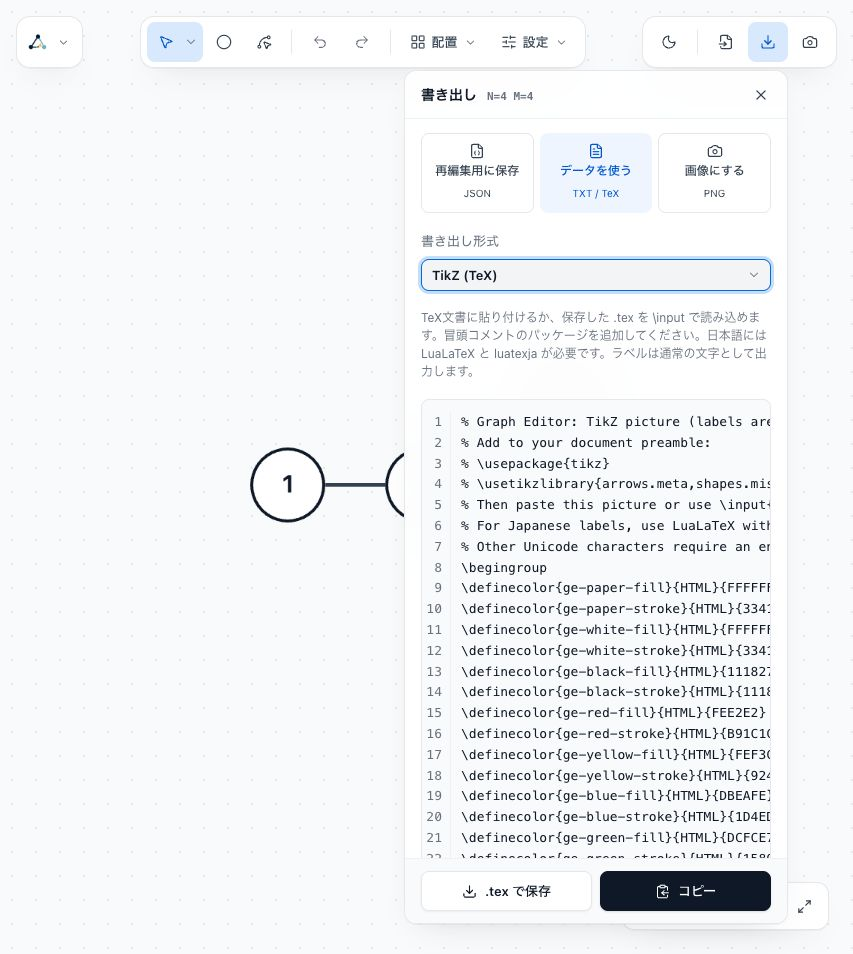
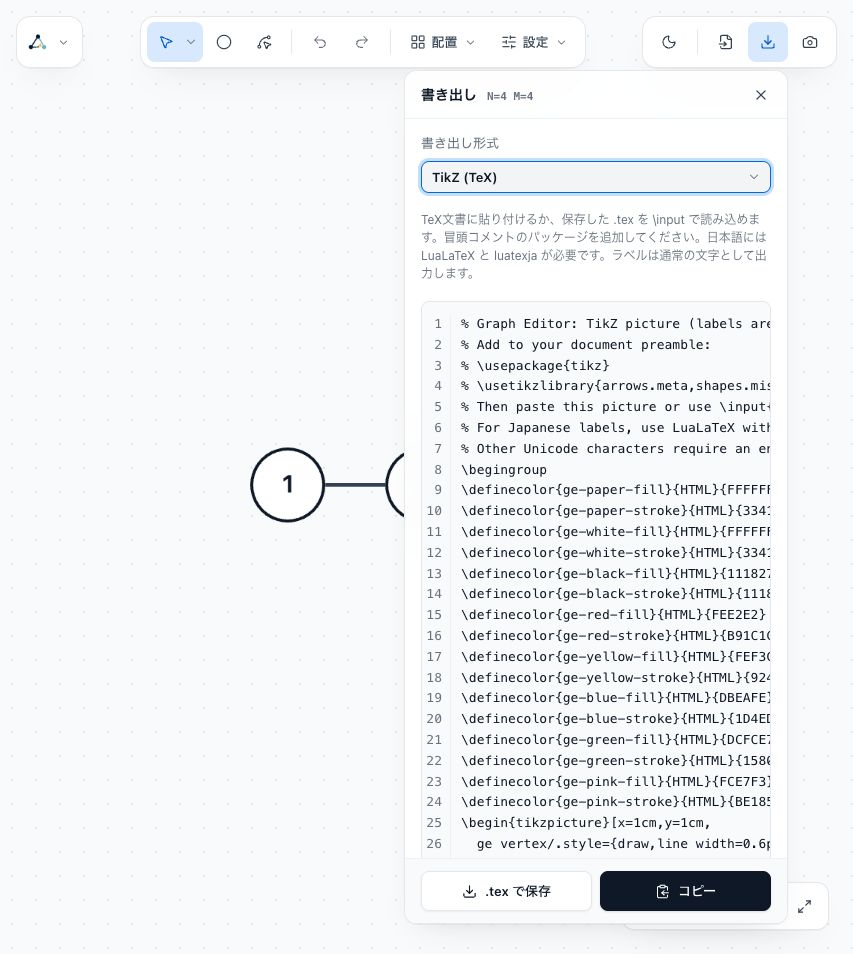
Simplify export controls and preserve start screen behind panels

Changed region(s): [[0.4877, 0.1216, 0.9144, 0.9119]]

diff --git a/features/graph-editor/ui/panels/ExportPanel.tsx b/features/graph-editor/ui/panels/ExportPanel.tsx
@@ -1,17 +1,10 @@
 "use client";
 
-import {
-  Camera,
-  ClipboardCopy,
-  Download,
-  FileJson,
-  FileText,
-} from "lucide-react";
+import { ClipboardCopy, Download } from "lucide-react";
 import { memo, useId, useMemo } from "react";
 
 import {
   Button,
-  ChoiceButton,
   ControlRow,
   Notice,
   PanelActions,
@@ -34,7 +27,6 @@ export function ExportPanelBody({
   mobile,
   pending = false,
   onExportFormatChange,
-  onOpenImage,
 }: {
   exportFormat: GraphExportFormat;
   exportText: string;
@@ -42,7 +34,6 @@ export function ExportPanelBody({
   mobile: boolean;
   pending?: boolean;
   onExportFormatChange: (format: GraphExportFormat) => void;
-  onOpenImage: () => void;
 }) {
   const { messages, locale } = useI18n();
   const formatId = useId();
@@ -58,50 +49,6 @@ export function ExportPanelBody({
 
   return (
     <>
-      <div
-        role="group"
-        aria-label={messages.exportPanel.purpose}
-        className="grid grid-cols-3 gap-1.5"
-      >
-        {[
-          {
-            label: messages.exportPanel.purposes.save,
-            detail: "JSON",
-            icon: FileJson,
-            active: exportFormat === "json",
-            onClick: () => onExportFormatChange("json"),
-          },
-          {
-            label: messages.exportPanel.purposes.data,
-            detail: "TXT / TeX",
-            icon: FileText,
-            active: exportFormat !== "json",
-            onClick: () => onExportFormatChange("edge-list"),
-          },
-          {
-            label: messages.exportPanel.purposes.image,
-            detail: "PNG",
-            icon: Camera,
-            active: false,
-            onClick: onOpenImage,
-          },
-        ].map(({ label, detail, icon: Icon, active, onClick }) => (
-          <ChoiceButton
-            key={label}
-            aria-label={label}
-            aria-pressed={detail === "PNG" ? undefined : active}
-            active={active}
-            layout="tile"
-            onClick={onClick}
-          >
-            <Icon className="size-4 shrink-0" aria-hidden="true" />
-            <span className="w-full text-xs leading-snug [overflow-wrap:anywhere] whitespace-normal">
-              {label}
-            </span>
-            <span className="text-[10px] font-normal">{detail}</span>
-          </ChoiceButton>
-        ))}
-      </div>
       <ControlRow
         htmlFor={formatId}
         label={messages.exportPanel.formatAria}

diff --git a/lib/guide-content.ts b/lib/guide-content.ts
@@ -255,7 +255,7 @@ export const guideCopy: Record<AppLocale, GuideCopy> = {
           {
             title: "あとで編集するなら JSON",
             description:
-              "「書き出し」で「再編集用に保存」を選び、.json ファイルを保存します。頂点、辺、ラベル、位置、色、曲げ方、グラフ設定を保てます。再開するときは「読み込み」から開いてください。",
+              "「書き出し」の形式で「JSON」を選び、.json ファイルを保存します。頂点、辺、ラベル、位置、色、曲げ方、グラフ設定を保てます。再開するときは「読み込み」から開いてください。",
           },
           {
             title: "図を共有するなら PNG",
@@ -528,7 +528,7 @@ export const guideCopy: Record<AppLocale, GuideCopy> = {
           {
             title: "Save for editing with JSON",
             description:
-              "In Export, choose Save for editing and save the .json file. It preserves nodes, edges, labels, positions, colors, bends, and graph settings. Open it through Load to resume editing.",
+              "In Export, choose JSON as the format and save the .json file. It preserves nodes, edges, labels, positions, colors, bends, and graph settings. Open it through Load to resume editing.",
           },
           {
             title: "Share an image with PNG",
@@ -805,7 +805,7 @@ export const guideCopy: Record<AppLocale, GuideCopy> = {
           {
             title: "用 JSON 保存以便再编辑",
             description:
-              "在“导出”中选择“保存以便再编辑”，保存 .json 文件。它保留顶点、边、标签、位置、颜色、弯曲和图设置。再次编辑时从“加载”打开。",
+              "在“导出”的格式中选择“JSON”，保存 .json 文件。它保留顶点、边、标签、位置、颜色、弯曲和图设置。再次编辑时从“加载”打开。",
           },
           {
             title: "用 PNG 分享图像",

diff --git a/features/graph-editor/i18n/messages.ts b/features/graph-editor/i18n/messages.ts
@@ -125,8 +125,6 @@ type Messages = {
   exportPanel: {
     title: string;
     formatAria: string;
-    purpose: string;
-    purposes: { save: string; data: string; image: string };
     emptyPlaceholder: string;
     preparing: string;
     exportedAria: (label: string) => string;
@@ -711,12 +709,6 @@ const ja: Messages = {
   },
   exportPanel: {
     title: "書き出し",
-    purpose: "用途を選ぶ",
-    purposes: {
-      save: "再編集用に保存",
-      data: "データを使う",
-      image: "画像にする",
-    },
     formatAria: "書き出し形式",
     emptyPlaceholder: "グラフを入力すると、ここに出力が表示されます",
     preparing: "書き出しを準備中",
@@ -1237,12 +1229,6 @@ const en: Messages = {
   },
   exportPanel: {
     title: "Export",
-    purpose: "Choose what to export",
-    purposes: {
-      save: "Save for editing",
-      data: "Use graph data",
-      image: "Create an image",
-    },
     formatAria: "Export format",
     emptyPlaceholder: "Graph output appears here after you create a graph.",
     preparing: "Preparing export",
@@ -1761,8 +1747,6 @@ const zhHans: Messages = {
   },
   exportPanel: {
     title: "导出",
-    purpose: "选择导出用途",
-    purposes: { save: "保存以便再编辑", data: "使用图数据", image: "生成图像" },
     formatAria: "导出格式",
     emptyPlaceholder: "创建图后，输出会显示在这里。",
     preparing: "正在准备导出",

diff --git a/tests/browser/responsive-ui-regressions.ts b/tests/browser/responsive-ui-regressions.ts
@@ -74,6 +74,11 @@ try {
           const appOpener = page.locator('[data-editor-panel-trigger="app"]');
           await appOpener.click();
           const appMenu = page.locator('[data-editor-panel="app"]');
+          assert.equal(
+            await page.locator("[data-editor-empty-state]").count(),
+            1,
+            "Opening the app menu preserves the start screen",
+          );
           const menuItems = appMenu.getByRole("menuitem");
           await page.waitForFunction(() =>
             document
@@ -111,6 +116,11 @@ try {
           });
           await load.click();
           const dialog = page.locator('[data-editor-panel="starter"]');
+          assert.equal(
+            await page.locator("[data-editor-empty-state]").count(),
+            1,
+            "Opening Load preserves the start screen behind the panel",
+          );
           await page.locator("textarea").fill("4 4\n1 2\n2 3\n2 4\n3 4");
           const apply = page.getByRole("button", {
             name: messages.chrome.starterApply,
@@ -132,6 +142,11 @@ try {
             () =>
               document.querySelectorAll("button.ge-select-node-hitbox")
                 .length === 4,
+          );
+          assert.equal(
+            await page.locator("[data-editor-empty-state]").count(),
+            0,
+            "Applying a graph removes the start screen",
           );
           if (width >= 768) {
             const settingsOpener = page.locator(

diff --git a/tests/browser/ui-workflow.ts b/tests/browser/ui-workflow.ts
@@ -129,8 +129,8 @@ try {
         .click();
       const panel = page.locator('[data-editor-panel="export"]');
       await panel
-        .getByRole("button", { name: m.exportPanel.purposes.save, exact: true })
-        .click();
+        .getByRole("combobox", { name: m.exportPanel.formatAria, exact: true })
+        .selectOption("json");
       await page.waitForFunction(
         () =>
           document.querySelector<HTMLSelectElement>(
@@ -151,8 +151,8 @@ try {
       const download = await downloadPromise;
       assert(download.suggestedFilename().endsWith(".json"));
       await panel
-        .getByRole("button", { name: m.exportPanel.purposes.data, exact: true })
-        .click();
+        .getByRole("combobox", { name: m.exportPanel.formatAria, exact: true })
+        .selectOption("edge-list");
       await page.waitForFunction(
         () =>
           document.querySelector<HTMLSelectElement>(
@@ -163,9 +163,9 @@ try {
       await page.screenshot({
         path: `${output}/${engine}-${locale}-${width}-export.png`,
       });
-      await panel
+      await page
         .getByRole("button", {
-          name: m.exportPanel.purposes.image,
+          name: m.chrome.png,
           exact: true,
         })
         .click();

diff --git a/features/graph-editor/ui/chrome/EditorChrome.tsx b/features/graph-editor/ui/chrome/EditorChrome.tsx
@@ -392,7 +392,6 @@ export function EditorChrome() {
             }
           >
             <ExportPanelBody
-              onOpenImage={() => open("png")}
               pending={exportResult.pending}
               exportFormat={exportFormat}
               exportText={exportText}
@@ -493,10 +492,7 @@ export function EditorChrome() {
     <>
       <TooltipLayer />
       <StorageNotice />
-      {graph &&
-      graphIsEmpty &&
-      (visiblePanel === null || visiblePanel === "app") &&
-      mode === "select" ? (
+      {graph && graphIsEmpty && mode === "select" ? (
         <EmptyState
           mobile={mobile}
           onDraw={() => handleModeChange("node")}

diff --git a/features/graph-editor/ui/chrome/EmptyState.tsx b/features/graph-editor/ui/chrome/EmptyState.tsx
@@ -30,6 +30,7 @@ export function EmptyState({
 
   return (
     <div
+      data-editor-empty-state
       className={
         mobile
           ? "pointer-events-none absolute inset-0 z-50 grid place-items-center px-4 pt-[72px] pb-[calc(var(--ge-mobile-controls-bottom,92px)+8px)]"

diff --git a/tests/browser/safari-workflow.py b/tests/browser/safari-workflow.py
@@ -118,9 +118,9 @@ class Session:
 
 def run_editor_review(session):
     messages = {
-        "ja": {"path": "/", "load": "グラフを読み込む", "apply": "グラフに反映", "export": "書き出し", "save": "再編集用に保存", "image": "画像にする"},
-        "en": {"path": "/en", "load": "Load a graph", "apply": "Apply to graph", "export": "Export", "save": "Save for editing", "image": "Create an image"},
-        "zh-hans": {"path": "/zh-hans", "load": "加载图", "apply": "应用到图", "export": "导出", "save": "保存以便再编辑", "image": "生成图像"},
+        "ja": {"path": "/", "load": "グラフを読み込む", "apply": "グラフに反映", "export": "書き出し", "image": "PNG 画像"},
+        "en": {"path": "/en", "load": "Load a graph", "apply": "Apply to graph", "export": "Export", "image": "PNG image"},
+        "zh-hans": {"path": "/zh-hans", "load": "加载图", "apply": "应用到图", "export": "导出", "image": "PNG 图像"},
     }
     results = []
     for locale, m in messages.items():
@@ -169,7 +169,7 @@ def run_editor_review(session):
                     {"type": "pointerUp", "button": 0}]}]})
                 session.wait("return JSON.parse(localStorage.getItem('graph-editor-graph')).nodes[0].x!==" + str(before["x"]))
                 session.click(session.button(m["export"]))
-                session.click(session.button(m["save"]))
+                session.command("POST", f"/element/{session.element('[data-editor-panel=export] select')}/value", {"text": "JSON"})
                 text = session.wait("const e=document.querySelector('[data-editor-panel=export] pre');return e&&e.textContent.trim().startsWith('{')&&e.textContent;")
                 graph = json.loads(text)
                 assert len(graph["nodes"]) == 4 and graph["nodes"][0]["color"] == "green"
@@ -1207,12 +1207,13 @@ def run_promo_recording(session):
     # Escape dismisses the selection so the export scene is uncluttered.
     range_key(session, "\ue00c")
     operate("書き出し", "return !!document.querySelector('[data-editor-panel=export]')")
-    exported_text = operate("再編集用に保存", "const e=document.querySelector('[data-editor-panel=export] pre');return e&&e.textContent.trim().startsWith('{')&&e.textContent;")
+    session.command("POST", f"/element/{session.element('[data-editor-panel=export] select')}/value", {"text": "JSON"})
+    exported_text = session.wait("const e=document.querySelector('[data-editor-panel=export] pre');return e&&e.textContent.trim().startsWith('{')&&e.textContent;")
     exported = json.loads(exported_text)
     assert exported["nodes"] == edited["nodes"] and exported["edges"] == edited["edges"]
     (output / "edited-graph.json").write_text(exported_text)
     capture("json-export", 2.0)
-    preview = operate("画像にする", "const img=document.querySelector('[data-editor-panel=png] img');return img&&img.complete&&img.naturalWidth>0&&{width:img.naturalWidth,height:img.naturalHeight,alt:img.alt};")
+    preview = operate("PNG 画像", "const img=document.querySelector('[data-editor-panel=png] img');return img&&img.complete&&img.naturalWidth>0&&{width:img.naturalWidth,height:img.naturalHeight,alt:img.alt};")
     # A native WebDriver click scrolls the image into the panel's visible body.
     session.click(session.element('[data-editor-panel=png] img'))
     session.js("document.querySelector('[data-editor-panel=png] img').scrollIntoView({block:'nearest'});")
